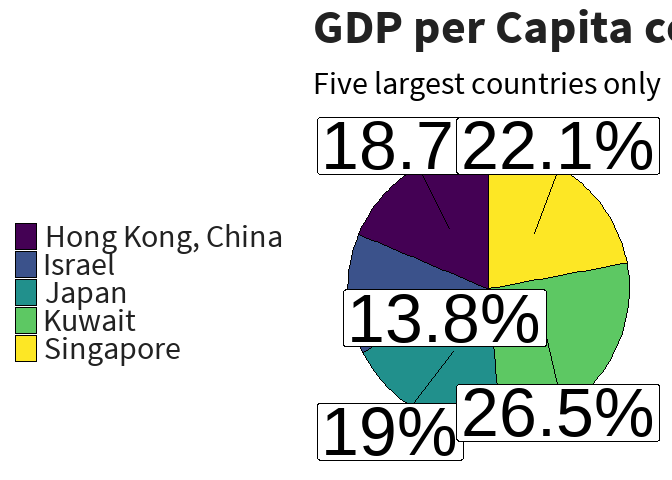
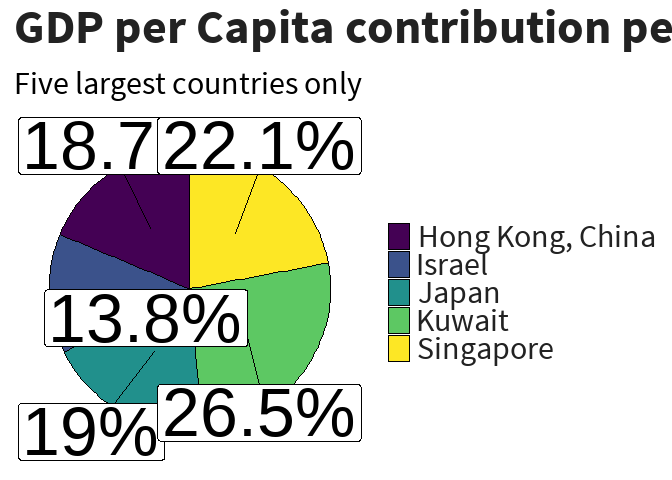
Add finalise_ggplot(), add example to readme

diff --git a/README.md b/README.md
@@ -109,6 +109,61 @@ starting point to use as a reference.
 
 More helper functions will be added as I need to make them.
 
+## Publishing your plots
+
+To publish your work, so will need to save your plot. Saving plots in
+ggplot2 can be a bit of a hassle, so we’re porting bbplot’s
+`finalise_plot()` function. Some adjustments have been made, for example
+we might not want a logo on every plot. Also, because this package does
+not just deal with ggplot, I’ve renamed the function
+`finalise_ggplot()`, to specify this is for `ggplot2` object only.
+
+Once you have created your plot and are happy with it, you can use
+`finalise_ggplot()` so that you can look at it outside RStudio. Note
+that the position of the text and other elements do not render
+accurately in the RStudio Plots panel, so saving it out and opening up
+the files give you an accurate representation of how the graphic looks.
+
+Also you might want to use the same plot for different purpose: the size
+of a plot in a presentation will need to be a different size from one in
+a report. `finalise_ggplot()` allows for this without having to change
+the original plot.
+
+``` r
+library(ggplot2)
+library(gapminder)
+library(dplyr)
+library(sccthemes)
+
+barchart_data <- gapminder |> 
+  filter(year == 2007 & continent == "Europe") |> 
+  arrange(desc(gdpPercap)) |> 
+  head(5)
+
+plot_to_save <- scc_barchart(
+  barchart_data,
+  x = "country",
+  y = "gdpPercap",
+  title = "Europe's Richest Countries",
+  subtitle = "GDP per Capita, 2007"
+)
+
+finalise_ggplot(
+  plot_to_save,
+  source = "Jennifer Bryan, 2017, Gapminder R package, https://github.com/jennybc/gapminder",
+  save_filepath = "inst/plots/publish_plot_example.png",
+  width_pixels = 640,
+  height_pixels = 450
+)
+#> Warning: Use of `df_to_plot[[x]]` is discouraged. Use `.data[[x]]` instead.
+#> Warning: Use of `df_to_plot[[y]]` is discouraged. Use `.data[[y]]` instead.
+#> Use of `df_to_plot[[y]]` is discouraged. Use `.data[[y]]` instead.
+#> Use of `df_to_plot[[y]]` is discouraged. Use `.data[[y]]` instead.
+#> Warning: Use of `df_to_plot[[x]]` is discouraged. Use `.data[[x]]` instead.
+```
+
+<img src="man/figures/README-finalise_ggplot-1.png" width="100%" />
+
 ## A note on colour palettes, branding and accessibility
 
 ### Putting thought into requirements and responsibilities
